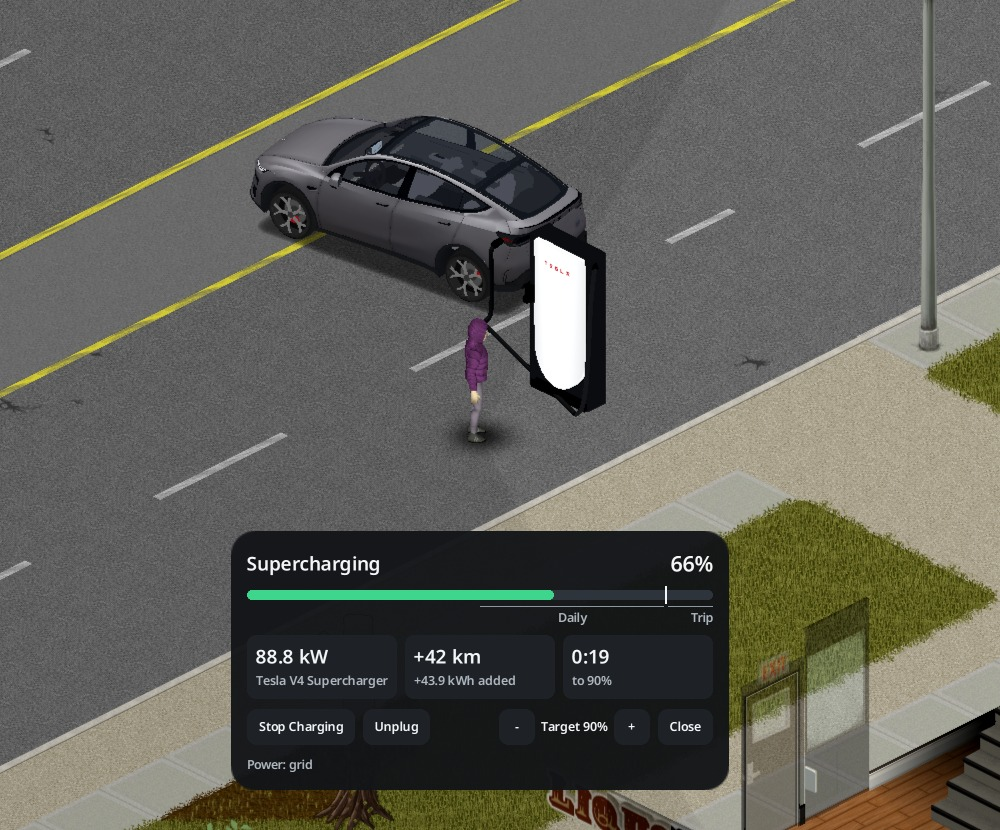
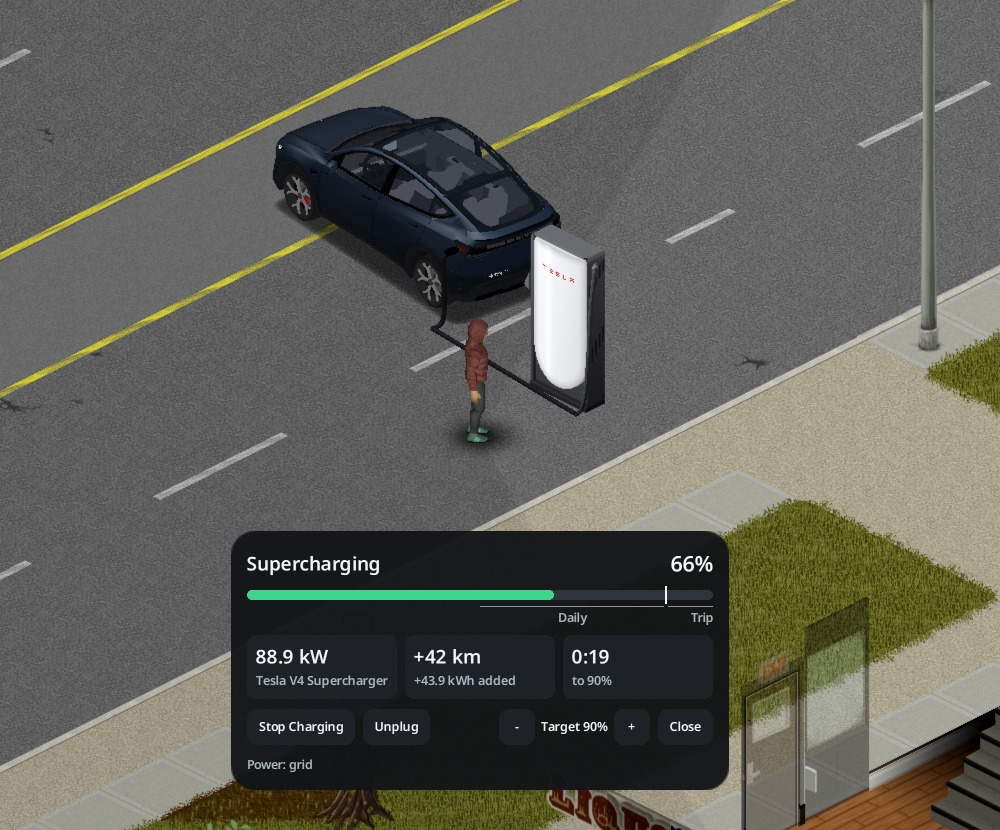
CHANGELOG 與指南：槍座、外觀打磨、大鐵鎚拆除；指南圖 32 換新外觀
- CHANGELOG [Unreleased]：V4 那條補「大鐵鎚拆除不看電工等級、拆了就沒了」「沒插線時槍插在槍座」；新增「變更」：壁掛式沒插線時槍插在槍座、TESLA 字形、白板明暗、電線顏色，附技術要點（插線版 tile 編號、伺服器換圖與同步、舊存檔、移除 MOD）。技術要點照本 repo 既有寫法接在該條後面。
- 指南中英：充電段加「槍座」一條；V4 段加「拆掉」一條（原版大鐵鎚、不掉東西、插著的車先拔線、照伺服器的安全屋限制）。
- 指南圖 32（中英）：supercharger-sp tesla-scbusy-1109-sp-ch5／-sp-en4 的 sc-*-card 裁 (480,160,1480,990)，換成打磨後插著線的樁。

Changed region(s): [[0.248, 0.1205, 0.62, 0.5422], [0.279, 0.7831, 0.31, 0.8133]]

diff --git a/CHANGELOG.md b/CHANGELOG.md
@@ -16,9 +16,15 @@
 
 ### 新增
 
-- **第三種充電設備：特斯拉 V4 超級充電座**：加油站旁會有 2～4 根 V4 超級充電座。中途加入本 MOD 時，已經去過的加油站下次載入時也會長；每座站只長一次，撿走的不會補回；多人伺服器的安全屋範圍內不會長。電工 6 級自動學會配方，也能在桌子之類的工作面旁自己做（電線 12、電子零件 9、小金屬片 6、螺絲 12，加螺絲起子、鉗子）。照實車越充越慢：低電量時最快，充到 80% 以上明顯變慢，Model Y 從 10% 充到 90% 約 36 分鐘（遊戲時間）。最高功率照官方：Cybertruck 325 kW，其他特斯拉 250 kW。和加油機一樣，戶外有市電就能用；停電後在發電機供電範圍內，或旁邊 2 格內有運轉中的發電機，照樣全速充電，但每小時耗油快很多（充滿一台總共耗的油和其他充電設備一樣）。電工 6 級、拿著螺絲起子可以撿起來搬回家再放下；它和原版發電機一樣重，要雙手搬。樁是實心的，人走不過去，殭屍也不會把它打壞。充電卡標題寫「超級充電」，功率會跟著電量一直變。
+- **第三種充電設備：特斯拉 V4 超級充電座**：加油站旁會有 2～4 根 V4 超級充電座。中途加入本 MOD 時，已經去過的加油站下次載入時也會長；每座站只長一次，撿走的不會補回；多人伺服器的安全屋範圍內不會長。電工 6 級自動學會配方，也能在桌子之類的工作面旁自己做（電線 12、電子零件 9、小金屬片 6、螺絲 12，加螺絲起子、鉗子）。照實車越充越慢：低電量時最快，充到 80% 以上明顯變慢，Model Y 從 10% 充到 90% 約 36 分鐘（遊戲時間）。最高功率照官方：Cybertruck 325 kW，其他特斯拉 250 kW。和加油機一樣，戶外有市電就能用；停電後在發電機供電範圍內，或旁邊 2 格內有運轉中的發電機，照樣全速充電，但每小時耗油快很多（充滿一台總共耗的油和其他充電設備一樣）。電工 6 級、拿著螺絲起子可以撿起來搬回家再放下；它和原版發電機一樣重，要雙手搬。用原版大鐵鎚「拆除」不看電工等級，拆了就沒了、不會掉東西。樁是實心的，人走不過去，殭屍也不會把它打壞。沒插線時充電槍插在槍座上，插上車才拿下來。充電卡標題寫「超級充電」，功率會跟著電量一直變。
 
 > 技術要點：直流曲線 `T.DC_CURVE`（Core.lua），峰值＝min(325, 車的 `dcKw`)×充電速度倍率，寫進 `chg.peak`；結算、卡片、App 都用 `B.chargeGain`／`chargeKwAt`，交流設備結果和以前相同。供電照加油機（`ItemContainer.java:2346-2349`）。生成用 `MapObjects.OnLoadWithSprite` 記下加油站（每次載入含加油機的 chunk 都會呼叫，從存檔讀回的也算；站的紀錄存在 global ModData，每站只建一次），周圍 chunk 載完後在 `EveryOneMinute` 走原版 `placeMoveableInternal` 放樁並登記進充電座 GOS；道路以世界地圖街道的 Nav zone 判斷，原版 46 座加油站有 45 座放得下；站的範圍和安全屋重疊時，安全屋裡的格子不放（`SafeHouse.getSafeHouse`）。放下時把 IsoThumpable 自己存檔的三個阻擋欄位關掉，擋路改靠 tile 的 `solidtrans`，所以移除 MOD 後不會留下隱形牆。配方 `MinidoracatTesla_MakeSupercharger` 和其他特斯拉配方一樣，多人伺服器在開始製作與電工升級時補學。
+
+### 變更
+
+- **壁掛式充電座沒插線時，充電槍插在槍座上**：以前壁掛式不論有沒有插線都是空槍座。現在照官方：沒插線時槍插在槍座、線繞在機身上，插上車時才拿下來，拔線後放回去。外觀也一起打磨：TESLA 字樣照官方字形重畫，白色面板白天不再一整片死白；充電線顏色稍微調亮，和設備上的線一致。已經裝在牆上的壁掛式也會換成新樣子，其他玩家看到的一樣。
+
+> 技術要點：壁掛式與超級充電座各多一組插線版 tile（壁掛式 `minidoracat_tesla_01_4`～`7`、超充 `_20`～`_23`），原本的 `_0`～`_3`、`_16`～`_19` 改成槍在槍座的模型。伺服器在插上與重新連結時換成插線版、拔掉時換回，多人用原版的物件換圖同步（`transmitUpdatedSpriteToClients`），換過的樣子跟著存檔。舊存檔裡插著車的壁掛式，在那台車載入時換成插線版；插線版載入後 10 遊戲分鐘內沒有車連上（例如車被刪掉）就換回槍在槍座。撿起或用大鐵鎚拆掉時不換圖，撿起的物品放下時一律是槍在槍座。移除本 MOD 後兩種 tile 一樣變成空物件，不留隱形牆。
 
 ### 修正
 

diff --git a/STEAM_GUIDE_EN.md b/STEAM_GUIDE_EN.md
@@ -160,6 +160,7 @@ A charger that works on the floor, no wall needed; slower than the Wall Connecto
 [*] [b]Charging speed[/b]: 11.5 kW at the Wall Connector, 7.6 kW at the Mobile Connector; empty to 90% takes about 6 and 9 in-game hours; the sandbox option Charging speed multiplier changes it. A Supercharger is far faster, see V4 Supercharger.
 [*] [b]Time skips count[/b]: charge is settled by the hours that passed, so sleeping or fast-forwarding loses nothing.
 [*] [b]Other players see the cable[/b]: it hangs from the Wall Connector or the Supercharger to the ground (it leaves the Mobile Connector right on the ground) and runs to the car's charge port.
+[*] [b]The holster[/b]: with no car plugged in, the Wall Connector's and the Supercharger's connector sits in its holster with the cable hung up; once a car is plugged in, the holster is empty. Other players see the same.
 [/list]
 {{img:04-charging-en.jpg}}
 [h3]The charge card[/h3]
@@ -180,6 +181,7 @@ A charger that works on the floor, no wall needed; slower than the Wall Connecto
 [*] [b]Power[/b]: the same rule as a gas pump: outdoors on the grid it just works. After the power cut it charges at full speed within a generator's range or with a running, fuelled generator within 2 tiles (same floor); when the server turns off Generator Working in Exterior, only a generator within 2 tiles counts. With no power, right-clicking it shows a grey line saying so.
 [*] [b]Fuel[/b]: each kWh burns the same fuel as on any charger, so a full charge still takes about one tank; but at this power it burns fuel much faster per hour: at 250 kW a full vanilla generator runs dry in about 19 minutes.
 [*] [b]Take one home[/b]: picking one up or placing it takes Electrical 6 and a screwdriver; it weighs as much as a vanilla generator (40) and takes both hands, so drop other gear if you cannot pick it up. Once placed, the power rule above applies. A gas station's posts belong to nobody, so the car's key rules alone decide who may plug in or unplug; one you place yourself is yours (see the FAQ Someone else's car is plugged into my charger. What now?).
+[*] [b]Destroy one[/b]: a vanilla sledgehammer's Destroy takes it down at any Electrical level; it is gone for good and drops nothing, and a car plugged into it is unplugged first. A server that allows sledgehammers only in safehouses applies that rule here too.
 [*] [b]Solid[/b]: you cannot walk through it, and zombies do not break it.
 [/list]
 === 🧰 Powershare and the bed outlets (Cybertruck)

diff --git a/STEAM_GUIDE.md b/STEAM_GUIDE.md
@@ -160,6 +160,7 @@ https://steamcommunity.com/sharedfiles/filedetails/?id=3829501237
 [*] [b]充電速度[/b]：壁掛式 11.5 kW、行動充電器 7.6 kW，從沒電充到 90% 約 6 小時與 9 小時（遊戲時間），沙盒「充電速度倍率」可以調。超級充電座快得多，見「V4 超級充電座」。
 [*] [b]快轉、睡覺也照算[/b]：電量照經過的時間結算，不會少算。
 [*] [b]其他玩家看得到線[/b]：線從壁掛式充電座與超級充電座垂到地上（行動充電器直接從地上拉出）再接到車的充電口。
+[*] [b]槍座[/b]：沒插線時，壁掛式充電座與超級充電座的充電槍插在槍座上、線掛好；插上車後槍座就空著。其他玩家看到的也一樣。
 [/list]
 {{img:04-charging-zh.jpg}}
 [h3]充電卡[/h3]
@@ -180,6 +181,7 @@ https://steamcommunity.com/sharedfiles/filedetails/?id=3829501237
 [*] [b]電源[/b]：和加油機同一套規則，戶外有市電就能用。停電後在發電機的供電範圍內，或樁旁 2 格內（同一層）有運轉中、有油的發電機，照樣全速充電；伺服器關掉沙盒「發電機室外運轉」時，只有旁邊 2 格內的發電機算。沒電時右鍵選單多一行灰字說明。
 [*] [b]耗油[/b]：每度電耗的油和其他充電設備一樣，充滿一台一樣約一桶；但功率高，每小時耗油快很多：250 kW 時，加滿的原版發電機約 19 分鐘就燒完。
 [*] [b]搬回家[/b]：電工 6 級、拿著螺絲起子才能撿起和放下；它和原版發電機一樣重（40），要雙手搬，身上其他東西太多時撿不起來。放下後照上面的電源規則。加油站長出來的樁不屬於任何人，照車的鑰匙規則誰都能插拔；自己放下的才算你的（見常見問題「別人的車插在我的充電座上怎麼辦？」）。
+[*] [b]拆掉[/b]：用原版大鐵鎚選「拆除」就能拆，不看電工等級；拆了就沒了，不會掉任何東西，插著的車會先自動拔線。伺服器設定只准在安全屋用大鐵鎚時，照伺服器的設定。
 [*] [b]實心[/b]：人走不過去，殭屍也不會把它打壞。
 [/list]
 === 🧰 Powershare 與車斗插座（Cybertruck）
